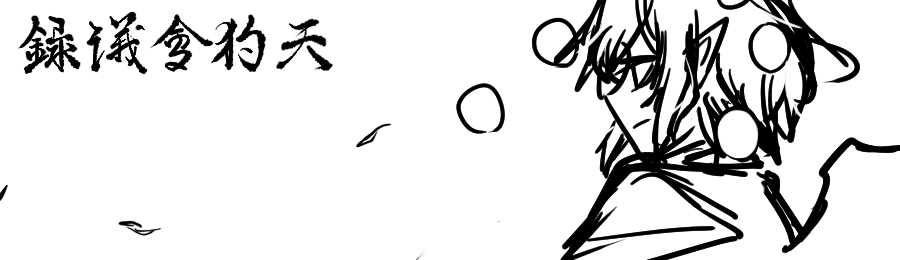
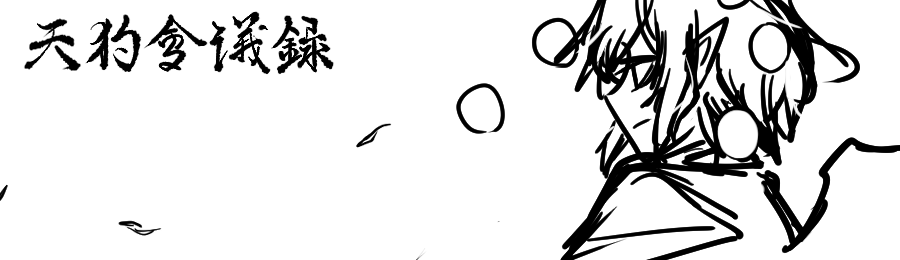
posts

Changed region(s): [[0.0, 0.0308, 0.3733, 0.2769]]

diff --git a/asset/style/posts-index.css b/asset/style/posts-index.css
@@ -1,0 +1,13 @@
+.catch {
+    margin-top: 48px;
+    width: 100%;
+}
+
+.card {
+    margin: 16px 0;
+}
+
+.card>a:first-child {
+    font-size: 28px;
+    font-weight: 700;
+}

diff --git a/asset/style/md.css b/asset/style/md.css
@@ -14,6 +14,8 @@ body {
 
 h1 {
     margin-bottom: 0;
+    font-size: 28px;
+    font-weight: 700;
 }
 
 h2 {

diff --git a/ssg/defaults.rs b/ssg/defaults.rs
@@ -1,6 +1,6 @@
 //! 強制的に作られるファイルを作るモジュール
 
-use crate::{embedded::*, strutil::StrPtr, template};
+use crate::{component, embedded::*, strutil::StrPtr, template};
 use serde::Deserialize;
 use serde_yaml::Value;
 use std::collections::HashSet;
@@ -14,14 +14,30 @@ struct PostMeta {
 }
 
 pub fn generate_posts_index_page(metas: Vec<(String, Value)>) -> String {
-    let mut styles = HashSet::new();
-    styles.insert(StrPtr(style::MD));
-    styles.insert(StrPtr(style::TRIAD));
-    styles.insert(StrPtr(style::HEADER));
-    styles.insert(StrPtr(style::FOOTER));
-    styles.insert(StrPtr(style::META));
-
     let mut buf = String::new();
+    let mut styles = HashSet::new();
 
-    template::generate_html_string(&HashSet::new(), "天狗会議録", "")
+    styles.insert(StrPtr(style::MD));
+    styles.insert(StrPtr(style::POSTS_INDEX));
+
+    component::push_header(&mut buf, &mut styles);
+    component::push_triad(
+        &mut buf,
+        &mut styles,
+        component::skip,
+        |buf, styles| {
+            buf.push_str("<img src=\"/catch.png\" class=\"catch\">");
+            for (id, value) in metas {
+                let meta = serde_yaml::from_value::<PostMeta>(value).unwrap();
+                buf.push_str("<div class=\"card\">");
+                buf.push_str(&format!("<a href=\"/posts/{id}\">{}</a>", meta.title));
+                component::push_meta(buf, styles, &meta.genre, &meta.tags, &meta.date);
+                buf.push_str("</div>");
+            }
+        },
+        component::skip,
+    );
+    component::push_footer(&mut buf, &mut styles);
+
+    template::generate_html_string(&styles, "天狗会議録", &buf)
 }

diff --git a/ssg/component.rs b/ssg/component.rs
@@ -36,7 +36,7 @@ pub fn push_header(buf: &mut String, styles: &mut HashSet<StrPtr>) {
         "\
         <div class=\"header\">\
             <a href=\"/\"><img src=\"/favicon.ico\"></a>\
-            <a href=\"/posts/\">Posts</a>\
+            <a href=\"/\">Posts</a>\
             <a href=\"/scraps/\">Scraps</a>\
             <a href=\"/pages/\">Pages</a>\
             <a href=\"/about/\">About</a>\
@@ -48,4 +48,21 @@ pub fn push_header(buf: &mut String, styles: &mut HashSet<StrPtr>) {
 pub fn push_footer(buf: &mut String, styles: &mut HashSet<StrPtr>) {
     styles.insert(StrPtr(style::FOOTER));
     buf.push_str("<div class=\"footer\">2022-2025, Tengu712, Skydog Association</div>");
+}
+
+pub fn push_meta(
+    buf: &mut String,
+    styles: &mut HashSet<StrPtr>,
+    genre: &str,
+    tags: &Vec<String>,
+    date: &str,
+) {
+    styles.insert(StrPtr(style::META));
+    buf.push_str("<div class=\"meta\">");
+    buf.push_str(&format!("<a href=\"/?filter={}\">${0}</a>", genre));
+    for tag in tags {
+        buf.push_str(&format!("<a href=\"/?filter={}\">#{0}</a>", tag));
+    }
+    buf.push_str(&format!("<span>{}</span>", date));
+    buf.push_str("</div>");
 }

diff --git a/ssg/md/layout/post.rs b/ssg/md/layout/post.rs
@@ -49,19 +49,11 @@ fn center(mdast: &Node, fm: &FrontMatter, buf: &mut String, styles: &mut Styles)
     }
     buf.push_str("</div>");
 
-    // title
+    // title & meta
     buf.push_str("<h1>");
     buf.push_str(&fm.title);
     buf.push_str("</h1>");
-
-    // TODO: meta
-    buf.push_str("<div class=\"meta\">");
-    buf.push_str(&format!("<a href=\"/?filter={}\">${0}</a>", fm.genre));
-    for tag in &fm.tags {
-        buf.push_str(&format!("<a href=\"/?filter={}\">#{0}</a>", tag));
-    }
-    buf.push_str(&format!("<span>{}</span>", fm.date));
-    buf.push_str("</div>");
+    component::push_meta(buf, styles, &fm.genre, &fm.tags, &fm.date);
 
     // content
     convert::mdast_to_html(mdast, buf, styles);
@@ -87,7 +79,6 @@ pub fn to_html(mdast: &Node, value: &Value, buf: &mut String, styles: &mut Style
 
     styles.insert(StrPtr(style::POST));
     styles.insert(StrPtr(style::INDEX));
-    styles.insert(StrPtr(style::META));
 
     component::push_header(buf, styles);
     component::push_triad(

diff --git a/ssg/embedded.rs b/ssg/embedded.rs
@@ -24,6 +24,9 @@ pub mod style {
     pub const HEADER: &str = include_str!("../asset/style/header.css");
     pub const META: &str = include_str!("../asset/style/meta.css");
 
-    // レイアウト固有コンポーネント
+    // ページ固有
+    pub const POSTS_INDEX: &str = include_str!("../asset/style/posts-index.css");
+
+    // レイアウト固有
     pub const INDEX: &str = include_str!("../asset/style/index.css");
 }

diff --git a/ssg/main.rs b/ssg/main.rs
@@ -108,6 +108,11 @@ fn main() {
         }
     }
 
-    defaults::generate_posts_index_page(post_metas);
+    fs::write(
+        "dist/index.html",
+        defaults::generate_posts_index_page(post_metas),
+    )
+    .unwrap();
+
     copy_publics();
 }
